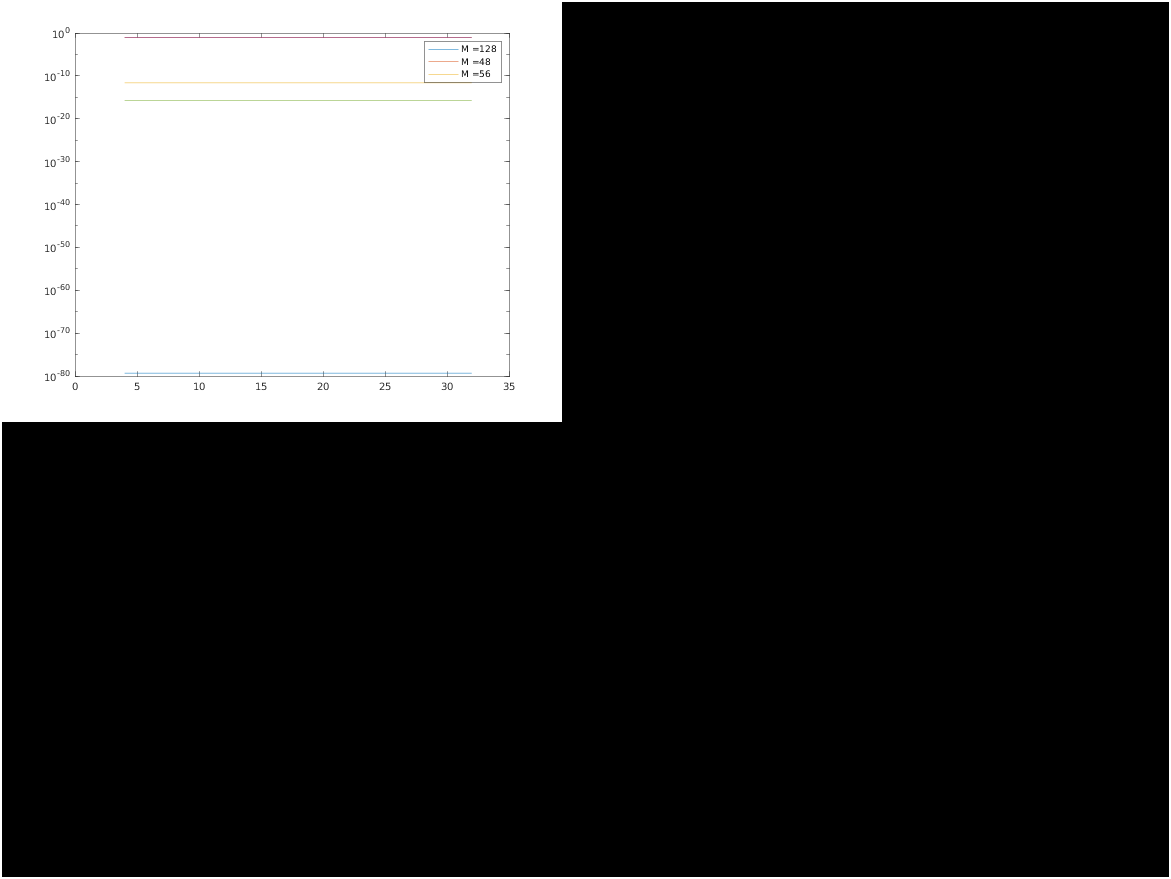
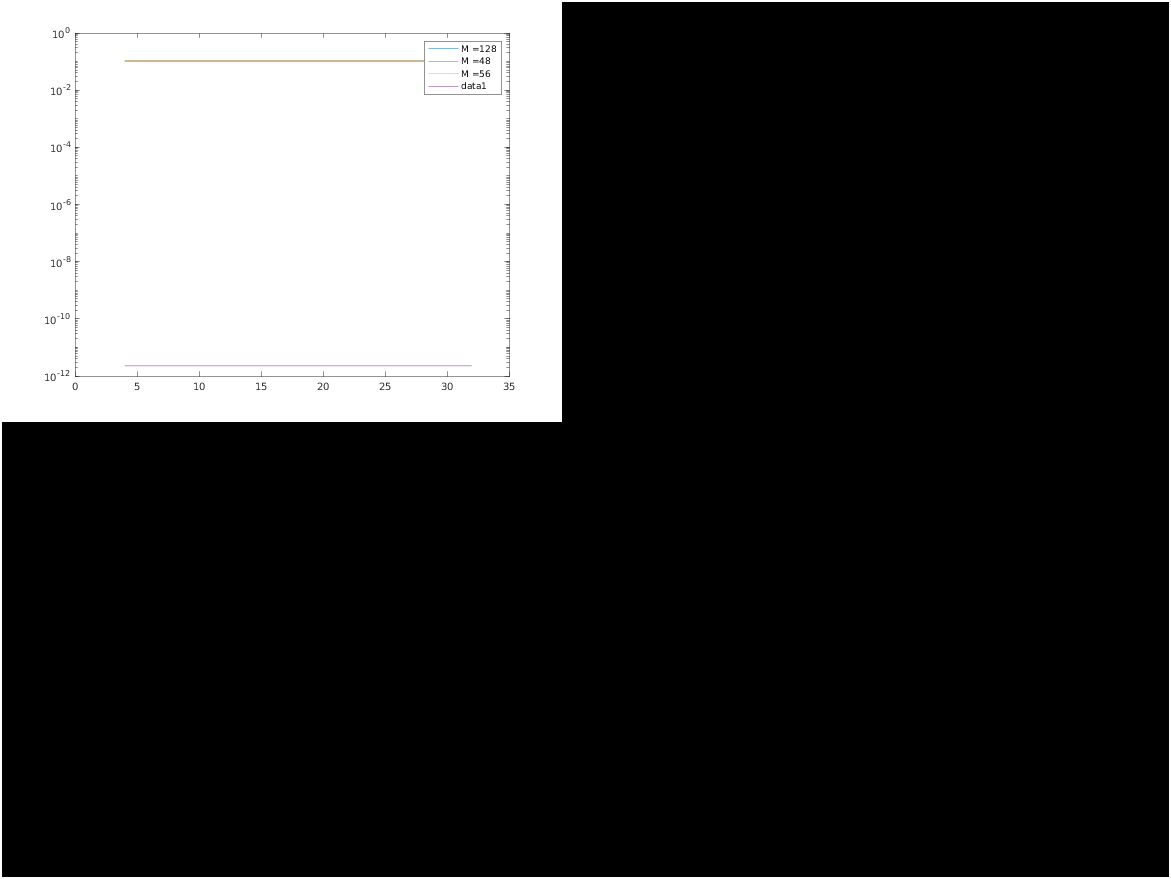
figs

diff --git a/SE_Stokes_run/SE3P_Stokes/P_error.m b/SE_Stokes_run/SE3P_Stokes/P_error.m
@@ -56,12 +56,13 @@ for M = [128 MM]
     e = est(M,opt.xi,L,F);
     e_vec = [e_vec, e];
 	semilogy(PP,rms_err)
-    semilogy(PP, e*ones(1,length(PP)))
+   
 	hold on
 	str = [str strcat('M = ',num2str(M))];
 end
 legend(str)
-
+e = est(48,opt.xi,L,F);
+semilogy(PP,e*ones(1,length(PP)))
 exportgraphics(gcf,'error_P.png')
 
 
